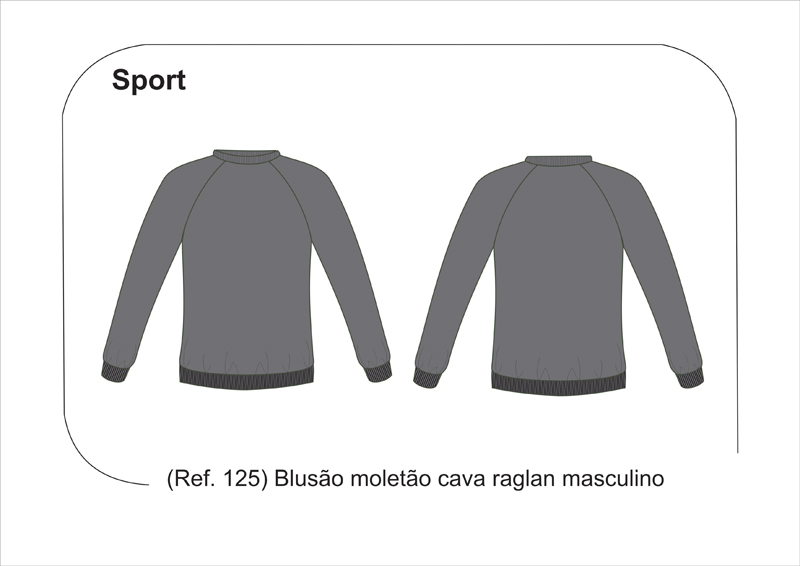
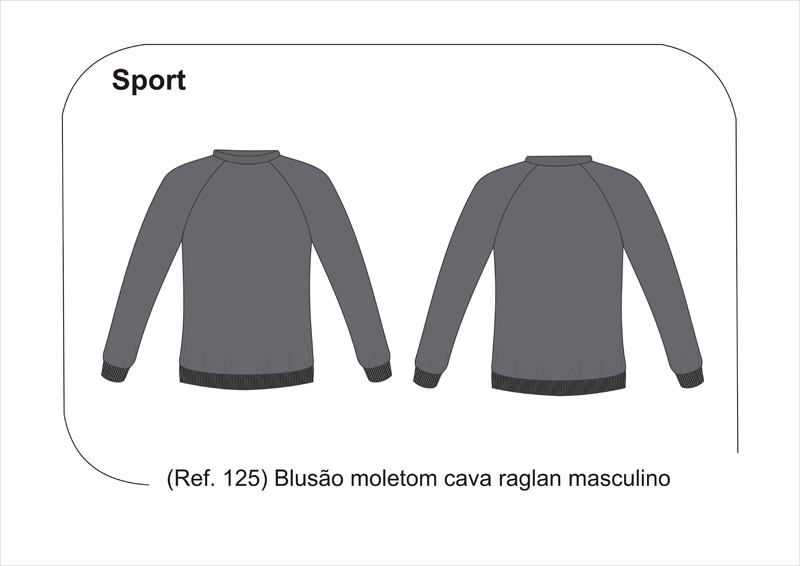
Alterações em imagens e descrições no portifólio

Changed region(s): [[0.4688, 0.811, 0.8438, 0.871], [0.3438, 0.841, 0.4062, 0.871], [0.2188, 0.841, 0.25, 0.871]]

diff --git a/trunk/Sheila/portfolio.php b/trunk/Sheila/portfolio.php
@@ -58,10 +58,22 @@ and open the template in the editor.
                                 <a class="fancybox-effects-c" href="imagens/portfolio/original/croquis/10-colecao-rock-n-roll-el-dia-de-los-muertos.jpg" data-fancybox-group="gallery" title="Coleção Rock'n Roll El dia de los muertos"><img src="imagens/portfolio/thumbnail/croquis/10-colecao-rock-n-roll-el-dia-de-los-muertos.jpg" alt="Coleção Rock'n Roll El dia de los muertos" /></a>                                
                                 <a class="fancybox-effects-c" href="imagens/portfolio/original/croquis/11-colecao-rock-n-roll-el-dia-de-los-muertos.jpg" data-fancybox-group="gallery" title="Coleção Rock'n Roll El dia de los muertos"><img src="imagens/portfolio/thumbnail/croquis/11-colecao-rock-n-roll-el-dia-de-los-muertos.jpg" alt="Coleção Rock'n Roll El dia de los muertos" /></a>                                
                                 <a class="fancybox-effects-c" href="imagens/portfolio/original/croquis/12-colecao-rock-n-roll-el-dia-de-los-muertos.jpg" data-fancybox-group="gallery" title="Coleção Rock'n Roll El dia de los muertos"><img src="imagens/portfolio/thumbnail/croquis/12-colecao-rock-n-roll-el-dia-de-los-muertos.jpg" alt="Coleção Rock'n Roll El dia de los muertos" /></a>                                
+                                <a class="fancybox-effects-c" href="imagens/portfolio/original/croquis/29.jpg" data-fancybox-group="gallery" title="Croqui"><img src="imagens/portfolio/thumbnail/croquis/29.jpg" alt="Croqui" /></a>  
+                                <a class="fancybox-effects-c" href="imagens/portfolio/original/croquis/30.jpg" data-fancybox-group="gallery" title="Croqui"><img src="imagens/portfolio/thumbnail/croquis/30.jpg" alt="Croqui" /></a>  
+                                <a class="fancybox-effects-c" href="imagens/portfolio/original/croquis/31.jpg" data-fancybox-group="gallery" title="Croqui"><img src="imagens/portfolio/thumbnail/croquis/31.jpg" alt="Croqui" /></a>  
+                                <a class="fancybox-effects-c" href="imagens/portfolio/original/croquis/32.jpg" data-fancybox-group="gallery" title="Croqui"><img src="imagens/portfolio/thumbnail/croquis/32.jpg" alt="Croqui" /></a>  
+                                <a class="fancybox-effects-c" href="imagens/portfolio/original/croquis/33.jpg" data-fancybox-group="gallery" title="Croqui"><img src="imagens/portfolio/thumbnail/croquis/33.jpg" alt="Croqui" /></a>  
+                                <a class="fancybox-effects-c" href="imagens/portfolio/original/croquis/34.jpg" data-fancybox-group="gallery" title="Croqui"><img src="imagens/portfolio/thumbnail/croquis/34.jpg" alt="Croqui" /></a>  
+                                <a class="fancybox-effects-c" href="imagens/portfolio/original/croquis/35.jpg" data-fancybox-group="gallery" title="Croqui"><img src="imagens/portfolio/thumbnail/croquis/35.jpg" alt="Croqui" /></a>  
+                                <a class="fancybox-effects-c" href="imagens/portfolio/original/croquis/36.jpg" data-fancybox-group="gallery" title="Croqui"><img src="imagens/portfolio/thumbnail/croquis/36.jpg" alt="Croqui" /></a>  
+                                <a class="fancybox-effects-c" href="imagens/portfolio/original/croquis/37.jpg" data-fancybox-group="gallery" title="Croqui"><img src="imagens/portfolio/thumbnail/croquis/37.jpg" alt="Croqui" /></a>  
+                                <a class="fancybox-effects-c" href="imagens/portfolio/original/croquis/38.jpg" data-fancybox-group="gallery" title="Croqui"><img src="imagens/portfolio/thumbnail/croquis/38.jpg" alt="Croqui" /></a>  
+                                <a class="fancybox-effects-c" href="imagens/portfolio/original/croquis/39.jpg" data-fancybox-group="gallery" title="Croqui"><img src="imagens/portfolio/thumbnail/croquis/39.jpg" alt="Croqui" /></a>  
+                                <a class="fancybox-effects-c" href="imagens/portfolio/original/croquis/40.jpg" data-fancybox-group="gallery" title="Croqui"><img src="imagens/portfolio/thumbnail/croquis/40.jpg" alt="Croqui" /></a>                                  
                                 <a class="fancybox-effects-c" href="imagens/portfolio/original/croquis/13-rock-n-roll.jpg" data-fancybox-group="gallery" title="Rock'n Roll"><img src="imagens/portfolio/thumbnail/croquis/13-rock-n-roll.jpg" alt="Rock'n Roll" /></a>                                
                                 <a class="fancybox-effects-c" href="imagens/portfolio/original/croquis/14-rock-n-roll.jpg" data-fancybox-group="gallery" title="Rock'n Roll"><img src="imagens/portfolio/thumbnail/croquis/14-rock-n-roll.jpg" alt="Rock'n Roll" /></a>                                
                                 <a class="fancybox-effects-c" href="imagens/portfolio/original/croquis/15-rock-n-roll.jpg" data-fancybox-group="gallery" title="Rock'n Roll"><img src="imagens/portfolio/thumbnail/croquis/15-rock-n-roll.jpg" alt="Rock'n Roll" /></a>                                
-                                <a class="fancybox-effects-c" href="imagens/portfolio/original/croquis/16-rock-n-roll.jpg" data-fancybox-group="gallery" title="Rock'n Roll"><img src="imagens/portfolio/thumbnail/croquis/16-rock-n-roll.jpg" alt="Rock'n Roll" /></a>                                
+                                <!--<a class="fancybox-effects-c" href="imagens/portfolio/original/croquis/16-rock-n-roll.jpg" data-fancybox-group="gallery" title="Rock'n Roll"><img src="imagens/portfolio/thumbnail/croquis/16-rock-n-roll.jpg" alt="Rock'n Roll" /></a>                                
                                 <a class="fancybox-effects-c" href="imagens/portfolio/original/croquis/17-rock-n-roll.jpg" data-fancybox-group="gallery" title="Rock'n Roll"><img src="imagens/portfolio/thumbnail/croquis/17-rock-n-roll.jpg" alt="Rock'n Roll" /></a>                                
                                 <a class="fancybox-effects-c" href="imagens/portfolio/original/croquis/18-rock-n-roll.jpg" data-fancybox-group="gallery" title="Rock'n Roll"><img src="imagens/portfolio/thumbnail/croquis/18-rock-n-roll.jpg" alt="Rock'n Roll" /></a>                                
                                 <a class="fancybox-effects-c" href="imagens/portfolio/original/croquis/19-rock-n-roll.jpg" data-fancybox-group="gallery" title="Rock'n Roll"><img src="imagens/portfolio/thumbnail/croquis/19-rock-n-roll.jpg" alt="Rock'n Roll" /></a>                                
@@ -72,8 +84,8 @@ and open the template in the editor.
                                 <a class="fancybox-effects-c" href="imagens/portfolio/original/croquis/24-esboco.jpg" data-fancybox-group="gallery" title="Esboço"><img src="imagens/portfolio/thumbnail/croquis/24-esboco.jpg" alt="Esboço" /></a>                                
                                 <a class="fancybox-effects-c" href="imagens/portfolio/original/croquis/25-esboco.jpg" data-fancybox-group="gallery" title="Esboço"><img src="imagens/portfolio/thumbnail/croquis/25-esboco.jpg" alt="Esboço" /></a>                                
                                 <a class="fancybox-effects-c" href="imagens/portfolio/original/croquis/26-esboco.jpg" data-fancybox-group="gallery" title="Esboço"><img src="imagens/portfolio/thumbnail/croquis/26-esboco.jpg" alt="Esboço" /></a>                                
-                                <a class="fancybox-effects-c" href="imagens/portfolio/original/croquis/27-esboco.jpg" data-fancybox-group="gallery" title="Esboço"><img src="imagens/portfolio/thumbnail/croquis/27-esboco.jpg" alt="Esboço" /></a>                                
-                                <a class="fancybox-effects-c" href="imagens/portfolio/original/croquis/28-esboco.jpg" data-fancybox-group="gallery" title="Esboço"><img src="imagens/portfolio/thumbnail/croquis/28-esboco.jpg" alt="Esboço" /></a>  
+                                <a class="fancybox-effects-c" href="imagens/portfolio/original/croquis/27-esboco.jpg" data-fancybox-group="gallery" title="Esboço"><img src="imagens/portfolio/thumbnail/croquis/27-esboco.jpg" alt="Esboço" /></a>-->                                
+                                <a class="fancybox-effects-c" href="imagens/portfolio/original/croquis/28-esboco.jpg" data-fancybox-group="gallery" title="Esboço"><img src="imagens/portfolio/thumbnail/croquis/28-esboco.jpg" alt="Esboço" /></a>                                  
                             </p>                                                
                             <!--<a href="#" class="btn btn-primary">Learn More</a>-->
                     </div>   
@@ -84,41 +96,41 @@ and open the template in the editor.
                             <a class="fancybox-effects-c" href="imagens/portfolio/original/desenhos-tecnicos/1-desenho-tecnico-bolsa-ma-petite.jpg" data-fancybox-group="gallery" title="Desenho técnico bolsa Ma Petite"><img src="imagens/portfolio/thumbnail/desenhos-tecnicos/1-desenho-tecnico-bolsa-ma-petite.jpg" alt="Desenho técnico bolsa Ma Petite" /></a>                            
                             <a class="fancybox-effects-c" href="imagens/portfolio/original/desenhos-tecnicos/2-amostra-de-mangas.jpg" data-fancybox-group="gallery" title="Amostra de mangas"><img src="imagens/portfolio/thumbnail/desenhos-tecnicos/2-amostra-de-mangas.jpg" alt="Amostra de mangas" /></a>                            
                             <a class="fancybox-effects-c" href="imagens/portfolio/original/desenhos-tecnicos/3-camisete-decote-com-colarinho-v-e-penses-i-manga-curta.jpg" data-fancybox-group="gallery" title="Camisete decote com colarinho V e penses I manga curta"><img src="imagens/portfolio/thumbnail/desenhos-tecnicos/3-camisete-decote-com-colarinho-v-e-penses-i-manga-curta.jpg" alt="Camisete decote com colarinho V e penses I manga curta" /></a>                            
-                            <a class="fancybox-effects-c" href="imagens/portfolio/original/desenhos-tecnicos/4-camisete-ziper-e-gola-com-recortes-m.jpg" data-fancybox-group="gallery" title="Camisete ziper e gola com recortes M"><img src="imagens/portfolio/thumbnail/desenhos-tecnicos/4-camisete-ziper-e-gola-com-recortes-m.jpg" alt="Camisete ziper e gola com recortes M" /></a>                            
-                            <a class="fancybox-effects-c" href="imagens/portfolio/original/desenhos-tecnicos/5-camisete-decote-com-colarinho-v-manga-longa-pense-ii.jpg" data-fancybox-group="gallery" title="Camisete decote com colarinho V manga longa pense II"><img src="imagens/portfolio/thumbnail/desenhos-tecnicos/5-camisete-decote-com-colarinho-v-manga-longa-pense-ii.jpg" alt="Camisete decote com colarinho V manga longa pense II" /></a>                            
-                            <a class="fancybox-effects-c" href="imagens/portfolio/original/desenhos-tecnicos/6-camisete-decote-v-com-colarinho-e-pense-manga-3-4.jpg" data-fancybox-group="gallery" title="Camisete decote V com colarinho e pense manga 3/4"><img src="imagens/portfolio/thumbnail/desenhos-tecnicos/6-camisete-decote-v-com-colarinho-e-pense-manga-3-4.jpg" alt="Camisete decote V com colarinho e pense manga 3/4" /></a>                            
+                            <a class="fancybox-effects-c" href="imagens/portfolio/original/desenhos-tecnicos/4-camisete-ziper-e-gola-com-recortes-m.jpg" data-fancybox-group="gallery" title="Camisete ziper e gola com recortes"><img src="imagens/portfolio/thumbnail/desenhos-tecnicos/4-camisete-ziper-e-gola-com-recortes-m.jpg" alt="Camisete ziper e gola com recortes" /></a>                            
+                            <a class="fancybox-effects-c" href="imagens/portfolio/original/desenhos-tecnicos/5-camisete-decote-com-colarinho-v-manga-longa-pense-ii.jpg" data-fancybox-group="gallery" title="Camisete decote  V com colarinho e pense"><img src="imagens/portfolio/thumbnail/desenhos-tecnicos/5-camisete-decote-com-colarinho-v-manga-longa-pense-ii.jpg" alt="Camisete decote  V com colarinho e pense" /></a>                            
+                            <a class="fancybox-effects-c" href="imagens/portfolio/original/desenhos-tecnicos/6-camisete-decote-v-com-colarinho-e-pense-manga-3-4.jpg" data-fancybox-group="gallery" title="Camisete decote V com colarinho e pense"><img src="imagens/portfolio/thumbnail/desenhos-tecnicos/6-camisete-decote-v-com-colarinho-e-pense-manga-3-4.jpg" alt="Camisete decote V com colarinho e pense" /></a>                            
                             <a class="fancybox-effects-c" href="imagens/portfolio/original/desenhos-tecnicos/7-baby-look-cava-raglan-feminino.jpg" data-fancybox-group="gallery" title="Baby look cava raglan feminino"><img src="imagens/portfolio/thumbnail/desenhos-tecnicos/7-baby-look-cava-raglan-feminino.jpg" alt="Baby look cava raglan feminino" /></a>                            
                             <a class="fancybox-effects-c" href="imagens/portfolio/original/desenhos-tecnicos/8-baby-look-cava-raglan-feminino-manga-longa.jpg" data-fancybox-group="gallery" title="Baby look cava raglan feminino manga longa"><img src="imagens/portfolio/thumbnail/desenhos-tecnicos/8-baby-look-cava-raglan-feminino-manga-longa.jpg" alt="Baby look cava raglan feminino manga longa" /></a>                            
                             <a class="fancybox-effects-c" href="imagens/portfolio/original/desenhos-tecnicos/9 Baby look cava raglan gola polo feminino.jpg" data-fancybox-group="gallery" title="Baby look cava raglan gola polo feminino"><img src="imagens/portfolio/thumbnail/desenhos-tecnicos/9 Baby look cava raglan gola polo feminino.jpg" alt="Baby look cava raglan gola polo feminino" /></a>                            
                             <a class="fancybox-effects-c" href="imagens/portfolio/original/desenhos-tecnicos/10-baby-look-cava-raglan-elastano-manga-longa.jpg" data-fancybox-group="gallery" title="Baby look cava raglan elastano manga longa"><img src="imagens/portfolio/thumbnail/desenhos-tecnicos/10-baby-look-cava-raglan-elastano-manga-longa.jpg" alt="Baby look cava raglan elastano manga longa" /></a>                            
-                            <a class="fancybox-effects-c" href="imagens/portfolio/original/desenhos-tecnicos/11-blusa-basica-gola-alta-elastano-m.jpg" data-fancybox-group="gallery" title="Blusa básica gola alta elastano M"><img src="imagens/portfolio/thumbnail/desenhos-tecnicos/11-blusa-basica-gola-alta-elastano-m.jpg" alt="Blusa básica gola alta elastano M" /></a>                            
-                            <a class="fancybox-effects-c" href="imagens/portfolio/original/desenhos-tecnicos/12-blusa-basica-gola-cacharrel-elastano-121.jpg" data-fancybox-group="gallery" title="Blusa básica gola cacharrel elastano 121"><img src="imagens/portfolio/thumbnail/desenhos-tecnicos/12-blusa-basica-gola-cacharrel-elastano-121.jpg" alt="Blusa básica gola cacharrel elastano 121" /></a>                            
+                            <a class="fancybox-effects-c" href="imagens/portfolio/original/desenhos-tecnicos/11-blusa-basica-gola-alta-elastano-m.jpg" data-fancybox-group="gallery" title="Blusa básica gola alta elastano"><img src="imagens/portfolio/thumbnail/desenhos-tecnicos/11-blusa-basica-gola-alta-elastano-m.jpg" alt="Blusa básica gola alta elastano" /></a>                            
+                            <a class="fancybox-effects-c" href="imagens/portfolio/original/desenhos-tecnicos/12-blusa-basica-gola-cacharrel-elastano-121.jpg" data-fancybox-group="gallery" title="Blusa básica gola cacharrel elastano"><img src="imagens/portfolio/thumbnail/desenhos-tecnicos/12-blusa-basica-gola-cacharrel-elastano-121.jpg" alt="Blusa básica gola cacharrel elastano" /></a>                            
                             <a class="fancybox-effects-c" href="imagens/portfolio/original/desenhos-tecnicos/13-baby-look-cava-raglan-masculino.jpg" data-fancybox-group="gallery" title="Baby look cava raglan masculino"><img src="imagens/portfolio/thumbnail/desenhos-tecnicos/13-baby-look-cava-raglan-masculino.jpg" alt="Baby look cava raglan masculino" /></a>                            
                             <a class="fancybox-effects-c" href="imagens/portfolio/original/desenhos-tecnicos/14-baby-look-cava-reta-gola-polo-masculino.jpg" data-fancybox-group="gallery" title="Baby look cava reta gola polo masculino"><img src="imagens/portfolio/thumbnail/desenhos-tecnicos/14-baby-look-cava-reta-gola-polo-masculino.jpg" alt="Baby look cava reta gola polo masculino" /></a>                            
-                            <a class="fancybox-effects-c" href="imagens/portfolio/original/desenhos-tecnicos/15-bermuda-bolso-faca.jpg" data-fancybox-group="gallery" title="Bermuda bolso faca"><img src="imagens/portfolio/thumbnail/desenhos-tecnicos/15-bermuda-bolso-faca.jpg" alt="Bermuda bolso faca" /></a>                            
+                            <a class="fancybox-effects-c" href="imagens/portfolio/original/desenhos-tecnicos/15-bermuda-bolso-faca.jpg" data-fancybox-group="gallery" title="Calça meio elástico bolso chapado"><img src="imagens/portfolio/thumbnail/desenhos-tecnicos/15-bermuda-bolso-faca.jpg" alt="Calça meio elástico bolso chapado" /></a>                            
                             <a class="fancybox-effects-c" href="imagens/portfolio/original/desenhos-tecnicos/16-calca-meio-elastico-bolso-chapado-com-bolso-cargo-na-perna-masculino.jpg" data-fancybox-group="gallery" title="Calça meio elástico bolso chapado com bolso cargo na perna masculino"><img src="imagens/portfolio/thumbnail/desenhos-tecnicos/16-calca-meio-elastico-bolso-chapado-com-bolso-cargo-na-perna-masculino.jpg" alt="Calça meio elástico bolso chapado com bolso cargo na perna masculino" /></a>                            
-                            <a class="fancybox-effects-c" href="imagens/portfolio/original/desenhos-tecnicos/17-calca-cos-fixo-masculino-bolso-jeans.jpg" data-fancybox-group="gallery" title="Calça cós fixo masculino bolso jeans"><img src="imagens/portfolio/thumbnail/desenhos-tecnicos/17-calca-cos-fixo-masculino-bolso-jeans.jpg" alt="Calça cós fixo masculino bolso jeans" /></a>                            
-                            <a class="fancybox-effects-c" href="imagens/portfolio/original/desenhos-tecnicos/18-calca-elastico-total-com-bolso-embutido-masculino.jpg" data-fancybox-group="gallery" title="Calça elástico total com bolso embutido masculino"><img src="imagens/portfolio/thumbnail/desenhos-tecnicos/18-calca-elastico-total-com-bolso-embutido-masculino.jpg" alt="Calça elástico total com bolso embutido masculino" /></a>                            
+                            <a class="fancybox-effects-c" href="imagens/portfolio/original/desenhos-tecnicos/17-calca-cos-fixo-masculino-bolso-jeans.jpg" data-fancybox-group="gallery" title="Calça cós fixo masculino"><img src="imagens/portfolio/thumbnail/desenhos-tecnicos/17-calca-cos-fixo-masculino-bolso-jeans.jpg" alt="Calça cós fixo masculino" /></a>                            
+                            <a class="fancybox-effects-c" href="imagens/portfolio/original/desenhos-tecnicos/18-calca-elastico-total-com-bolso-embutido-masculino.jpg" data-fancybox-group="gallery" title="Calça elástico total"><img src="imagens/portfolio/thumbnail/desenhos-tecnicos/18-calca-elastico-total-com-bolso-embutido-masculino.jpg" alt="Calça elástico total" /></a>                            
                             <a class="fancybox-effects-c" href="imagens/portfolio/original/desenhos-tecnicos/19-calca-meio-elastico-bolso-jeans-e-pala-traseira-com-bolso-cargo.jpg" data-fancybox-group="gallery" title="Calça meio elástico bolso jeans e pala traseira com bolso cargo"><img src="imagens/portfolio/thumbnail/desenhos-tecnicos/19-calca-meio-elastico-bolso-jeans-e-pala-traseira-com-bolso-cargo.jpg" alt="Calça meio elástico bolso jeans e pala traseira com bolso cargo" /></a>                            
                             <a class="fancybox-effects-c" href="imagens/portfolio/original/desenhos-tecnicos/20-bermuda-bolso-faca-meio-elastico-masculina.jpg" data-fancybox-group="gallery" title="Bermuda bolso faca meio elástico masculina"><img src="imagens/portfolio/thumbnail/desenhos-tecnicos/20-bermuda-bolso-faca-meio-elastico-masculina.jpg" alt="Bermuda bolso faca meio elástico masculina" /></a>                            
                             <a class="fancybox-effects-c" href="imagens/portfolio/original/desenhos-tecnicos/21-bermuda-elastico-total-masculina.jpg" data-fancybox-group="gallery" title="Bermuda elástico total masculina"><img src="imagens/portfolio/thumbnail/desenhos-tecnicos/21-bermuda-elastico-total-masculina.jpg" alt="Bermuda elástico total masculina" /></a>                            
                             <a class="fancybox-effects-c" href="imagens/portfolio/original/desenhos-tecnicos/22-macacao-masculino.jpg" data-fancybox-group="gallery" title="Macacão masculino"><img src="imagens/portfolio/thumbnail/desenhos-tecnicos/22-macacao-masculino.jpg" alt="Macacão masculino" /></a>                            
-                            <a class="fancybox-effects-c" href="imagens/portfolio/original/desenhos-tecnicos/23-blazer-c-recortes-ziper-e-gola-reta-com-recorte-i.jpg" data-fancybox-group="gallery" title="Blazer com recortes zíper e gola reta com recorte I"><img src="imagens/portfolio/thumbnail/desenhos-tecnicos/23-blazer-c-recortes-ziper-e-gola-reta-com-recorte-i.jpg" alt="Blazer com recortes zíper e gola reta com recorte I" /></a>                            
-                            <a class="fancybox-effects-c" href="imagens/portfolio/original/desenhos-tecnicos/24-blazer-com-recorte-e-gola-reta.jpg" data-fancybox-group="gallery" title="Blazer com recorte e gola reta"><img src="imagens/portfolio/thumbnail/desenhos-tecnicos/24-blazer-com-recorte-e-gola-reta.jpg" alt="Blazer com recorte e gola reta" /></a>                            
+                            <a class="fancybox-effects-c" href="imagens/portfolio/original/desenhos-tecnicos/23-blazer-c-recortes-ziper-e-gola-reta-com-recorte-i.jpg" data-fancybox-group="gallery" title="Blazer com recortes, zíper e gola reta sem forro"><img src="imagens/portfolio/thumbnail/desenhos-tecnicos/23-blazer-c-recortes-ziper-e-gola-reta-com-recorte-i.jpg" alt="Blazer com recortes, zíper e gola reta sem forro" /></a>                            
+                            <a class="fancybox-effects-c" href="imagens/portfolio/original/desenhos-tecnicos/24-blazer-com-recorte-e-gola-reta.jpg" data-fancybox-group="gallery" title="Camisete decote V com colarinho e penses"><img src="imagens/portfolio/thumbnail/desenhos-tecnicos/24-blazer-com-recorte-e-gola-reta.jpg" alt="Camisete decote V com colarinho e penses" /></a>                            
                             <a class="fancybox-effects-c" href="imagens/portfolio/original/desenhos-tecnicos/25-colete-social-fem.jpg" data-fancybox-group="gallery" title="Colete social feminino"><img src="imagens/portfolio/thumbnail/desenhos-tecnicos/25-colete-social-fem.jpg" alt="Colete social feminino" /></a>                            
                             <a class="fancybox-effects-c" href="imagens/portfolio/original/desenhos-tecnicos/26-saia-justa-com-cos-fem.jpg" data-fancybox-group="gallery" title="Saia justa com cós feminino"><img src="imagens/portfolio/thumbnail/desenhos-tecnicos/26-saia-justa-com-cos-fem.jpg" alt="Saia justa com cós feminino" /></a>                            
-                            <a class="fancybox-effects-c" href="imagens/portfolio/original/desenhos-tecnicos/27-vestido-cavado-c-recortes-093.jpg" data-fancybox-group="gallery" title="Vestido cavado com recortes 093"><img src="imagens/portfolio/thumbnail/desenhos-tecnicos/27-vestido-cavado-c-recortes-093.jpg" alt="Vestido cavado com recortes 093" /></a>                            
-                            <a class="fancybox-effects-c" href="imagens/portfolio/original/desenhos-tecnicos/28-vestido-manga-e-recortes-092.jpg" data-fancybox-group="gallery" title="Vestido manga e recortes 092"><img src="imagens/portfolio/thumbnail/desenhos-tecnicos/28-vestido-manga-e-recortes-092.jpg" alt="Vestido manga e recortes 092" /></a>                            
-                            <a class="fancybox-effects-c" href="imagens/portfolio/original/desenhos-tecnicos/29-vestido-cavado-e-gola-aberto-na-frente-c-recortes-094.jpg" data-fancybox-group="gallery" title="Vestido cavado e gola aberto na frente com recortes 094"><img src="imagens/portfolio/thumbnail/desenhos-tecnicos/29-vestido-cavado-e-gola-aberto-na-frente-c-recortes-094.jpg" alt="Vestido cavado e gola aberto na frente com recortes 094" /></a>                            
-                            <a class="fancybox-effects-c" href="imagens/portfolio/original/desenhos-tecnicos/30-vestido-manga-e-gola-aberto-nafrente-c-pences-091.jpg" data-fancybox-group="gallery" title="Vestido manga e gola aberto na frente com pences 091"><img src="imagens/portfolio/thumbnail/desenhos-tecnicos/30-vestido-manga-e-gola-aberto-nafrente-c-pences-091.jpg" alt="Vestido manga e gola aberto na frente com pences 091" /></a>                            
-                            <a class="fancybox-effects-c" href="imagens/portfolio/original/desenhos-tecnicos/31-blusa-moletom-cava-raglan-masculino.jpg" data-fancybox-group="gallery" title="Blusa moletom cava raglan masculino"><img src="imagens/portfolio/thumbnail/desenhos-tecnicos/31-blusa-moletom-cava-raglan-masculino.jpg" alt="Blusa moletom cava raglan masculino" /></a>                            
+                            <a class="fancybox-effects-c" href="imagens/portfolio/original/desenhos-tecnicos/27-vestido-cavado-c-recortes-093.jpg" data-fancybox-group="gallery" title="Vestido cavado com recortes"><img src="imagens/portfolio/thumbnail/desenhos-tecnicos/27-vestido-cavado-c-recortes-093.jpg" alt="Vestido cavado com recortes" /></a>                            
+                            <a class="fancybox-effects-c" href="imagens/portfolio/original/desenhos-tecnicos/28-vestido-manga-e-recortes-092.jpg" data-fancybox-group="gallery" title="Vestido manga e recortes"><img src="imagens/portfolio/thumbnail/desenhos-tecnicos/28-vestido-manga-e-recortes-092.jpg" alt="Vestido manga e recortes" /></a>                            
+                            <a class="fancybox-effects-c" href="imagens/portfolio/original/desenhos-tecnicos/29-vestido-cavado-e-gola-aberto-na-frente-c-recortes-094.jpg" data-fancybox-group="gallery" title="Vestido cavado aberto na frente com recortes e gola"><img src="imagens/portfolio/thumbnail/desenhos-tecnicos/29-vestido-cavado-e-gola-aberto-na-frente-c-recortes-094.jpg" alt="Vestido cavado aberto na frente com recortes e gola" /></a>                            
+                            <a class="fancybox-effects-c" href="imagens/portfolio/original/desenhos-tecnicos/30-vestido-manga-e-gola-aberto-nafrente-c-pences-091.jpg" data-fancybox-group="gallery" title="Vestido manga e gola aberto na frente com pences"><img src="imagens/portfolio/thumbnail/desenhos-tecnicos/30-vestido-manga-e-gola-aberto-nafrente-c-pences-091.jpg" alt="Vestido manga e gola aberto na frente com pences" /></a>                            
+                            <a class="fancybox-effects-c" href="imagens/portfolio/original/desenhos-tecnicos/31-blusa-moletom-cava-raglan-masculino.jpg" data-fancybox-group="gallery" title="Blusão moletom cava raglan masculino"><img src="imagens/portfolio/thumbnail/desenhos-tecnicos/31-blusa-moletom-cava-raglan-masculino.jpg" alt="Blusão moletom cava raglan masculino" /></a>                            
                             <a class="fancybox-effects-c" href="imagens/portfolio/original/desenhos-tecnicos/32-blusao-moletom-cava-reta-com-capuz.jpg" data-fancybox-group="gallery" title="Blusão moletom cava reta com capuz"><img src="imagens/portfolio/thumbnail/desenhos-tecnicos/32-blusao-moletom-cava-reta-com-capuz.jpg" alt="Blusão moletom cava reta com capuz" /></a>                            
                             <a class="fancybox-effects-c" href="imagens/portfolio/original/desenhos-tecnicos/33-jaqueta-cava-raglan-com-capuz-moleton.jpg" data-fancybox-group="gallery" title="Jaqueta cava raglan com capuz moletom"><img src="imagens/portfolio/thumbnail/desenhos-tecnicos/33-jaqueta-cava-raglan-com-capuz-moleton.jpg" alt="Jaqueta cava raglan com capuz moletom" /></a>                            
                             <a class="fancybox-effects-c" href="imagens/portfolio/original/desenhos-tecnicos/34-jaqueta-cava-raglan-forrada-fem.jpg" data-fancybox-group="gallery" title="Jaqueta cava raglan forrada feminino"><img src="imagens/portfolio/thumbnail/desenhos-tecnicos/34-jaqueta-cava-raglan-forrada-fem.jpg" alt="Jaqueta cava raglan forrada feminino" /></a>                            
-                            <a class="fancybox-effects-c" href="imagens/portfolio/original/desenhos-tecnicos/35-jaqueta-cava-raglan-nylon-feminino.jpg" data-fancybox-group="gallery" title="Jaqueta cava raglan nylon feminino"><img src="imagens/portfolio/thumbnail/desenhos-tecnicos/35-jaqueta-cava-raglan-nylon-feminino.jpg" alt="Jaqueta cava raglan nylon feminino" /></a>                            
-                            <a class="fancybox-effects-c" href="imagens/portfolio/original/desenhos-tecnicos/36-calca-tactel-masculina.jpg" data-fancybox-group="gallery" title="Calça tactel masculina"><img src="imagens/portfolio/thumbnail/desenhos-tecnicos/36-calca-tactel-masculina.jpg" alt="Calça tactel masculina" /></a>                            
-                            <a class="fancybox-effects-c" href="imagens/portfolio/original/desenhos-tecnicos/37-calca-moleton-masculino.jpg" data-fancybox-group="gallery" title="Calça moletom masculino"><img src="imagens/portfolio/thumbnail/desenhos-tecnicos/37-calca-moleton-masculino.jpg" alt="Calça moletom masculino" /></a>                            
-                            <a class="fancybox-effects-c" href="imagens/portfolio/original/desenhos-tecnicos/38-calca-bailarina-com-faixa-lateral-suplex-fem.jpg" data-fancybox-group="gallery" title="Calça bailarina com faixa lateral suplex feminino"><img src="imagens/portfolio/thumbnail/desenhos-tecnicos/38-calca-bailarina-com-faixa-lateral-suplex-fem.jpg" alt="Calça bailarina com faixa lateral suplex feminino" /></a>                            
+                            <a class="fancybox-effects-c" href="imagens/portfolio/original/desenhos-tecnicos/35-jaqueta-cava-raglan-nylon-feminino.jpg" data-fancybox-group="gallery" title="Jaqueta cava raglan fibra feminino"><img src="imagens/portfolio/thumbnail/desenhos-tecnicos/35-jaqueta-cava-raglan-nylon-feminino.jpg" alt="Jaqueta cava raglan fibra feminino" /></a>                            
+                            <a class="fancybox-effects-c" href="imagens/portfolio/original/desenhos-tecnicos/36-calca-tactel-masculina.jpg" data-fancybox-group="gallery" title="Calça c/ elástano forrada tactel masculina"><img src="imagens/portfolio/thumbnail/desenhos-tecnicos/36-calca-tactel-masculina.jpg" alt="Calça c/ elástano forrada tactel masculina" /></a>                            
+                            <a class="fancybox-effects-c" href="imagens/portfolio/original/desenhos-tecnicos/37-calca-moleton-masculino.jpg" data-fancybox-group="gallery" title="Calça básica com elástico moletom masculino"><img src="imagens/portfolio/thumbnail/desenhos-tecnicos/37-calca-moleton-masculino.jpg" alt="Calça básica com elástico moletom masculino" /></a>                            
+                            <a class="fancybox-effects-c" href="imagens/portfolio/original/desenhos-tecnicos/38-calca-bailarina-com-faixa-lateral-suplex-fem.jpg" data-fancybox-group="gallery" title="Calça bailarina suplex feminino"><img src="imagens/portfolio/thumbnail/desenhos-tecnicos/38-calca-bailarina-com-faixa-lateral-suplex-fem.jpg" alt="Calça bailarina suplex feminino" /></a>                            
                             <a class="fancybox-effects-c" href="imagens/portfolio/original/desenhos-tecnicos/39-calca-leg-suplex-feminino.jpg" data-fancybox-group="gallery" title="Calça leg suplex feminino"><img src="imagens/portfolio/thumbnail/desenhos-tecnicos/39-calca-leg-suplex-feminino.jpg" alt="Calça leg suplex feminino" /></a>                            
                             <a class="fancybox-effects-c" href="imagens/portfolio/original/desenhos-tecnicos/40-regata-malha-feminino-basica.jpg" data-fancybox-group="gallery" title="Regata malha feminino básica"><img src="imagens/portfolio/thumbnail/desenhos-tecnicos/40-regata-malha-feminino-basica.jpg" alt="Regata malha feminino básica" /></a> 
                             <a class="fancybox-effects-c" href="imagens/portfolio/original/desenhos-tecnicos/41-top-basico-feminino.jpg" data-fancybox-group="gallery" title="Top básico feminino"><img src="imagens/portfolio/thumbnail/desenhos-tecnicos/41-top-basico-feminino.jpg" alt="Top básico feminino" /></a>                            
